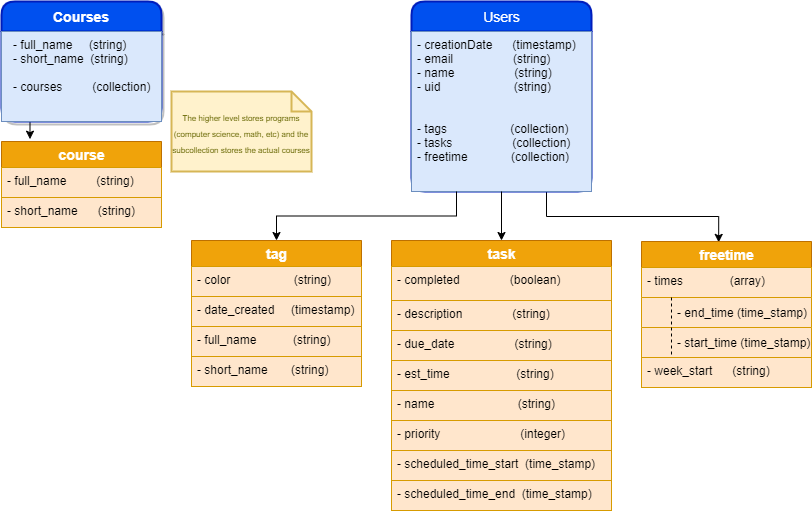
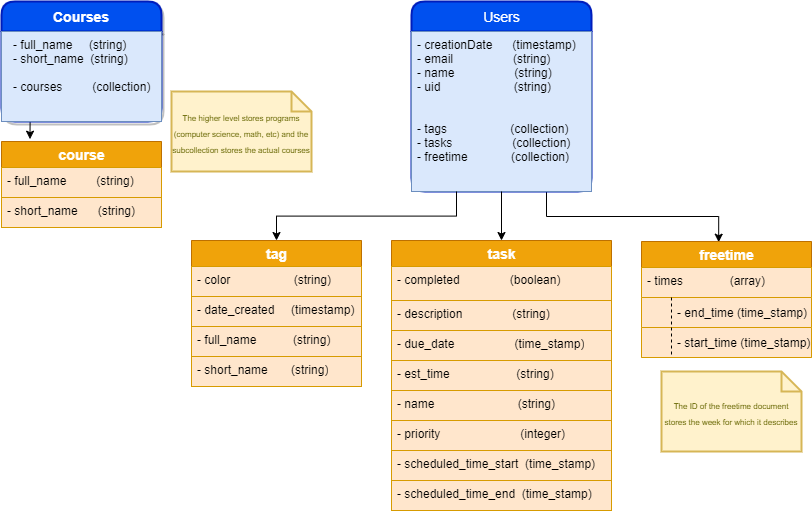
Update database diagram

Changed region(s): [[0.7697, 0.6862, 1.0, 0.9045], [0.3387, 0.4055, 0.5542, 0.4366], [0.6466, 0.655, 0.7389, 0.6862]]

diff --git a/Design/Database/DatabaseExplanation.md b/Design/Database/DatabaseExplanation.md
@@ -19,10 +19,6 @@ This master list of courses is something everyone can read from (but not edit) f
 The Users collection will store the majority of our data.
 Under a user document, we will store their name, uid, and email address.
 Each user document will have 4 sub-collections:
-#### courses
-This sub-collection stores the courses that the user is actually involved with. It also stores data that is particular to the user. 
-We plan on storing the semester in which the course was taken, the option for the user to put a "Friendly name" (i.e if they wanted to name their "Computer Science Capstone" course "Capstone"), and a color for the tag.
-Each course here will contain a reference back to the global course list.
 
 These essentially function as tags, but reference the global course list.
 #### tags
@@ -32,7 +28,7 @@ It allows them to set a full and shortname (like the course name and code), and 
 This subcollection stores the times a user marks themselves available to schedule their tasks.
 Rather than storing these all as an array, we decided to do each week as a document. 
 This allows us to query weeks at a time, and allow the user to add time in advance.
-Each document stores the start of the week (for querying purposes) and a map of timestamps (for the beginning of the freetime and the end of the freetime).
+Each document stores the start of the week as the ID (for querying purposes) and a map of timestamps (for the beginning of the freetime and the end of the freetime).
 #### tasks
 Finally, we have our tasks subcollection.
 This is where the majority of data will be stored.
@@ -46,4 +42,4 @@ Here we will store the following items relating to the task
  - a priority (stored as an integer)
  - The scheduled start time(stored as a timestamp) - when the user schedules
  - The schedules end time(stored as a timestamp) - when the user schedules
- - An array of tags (stored as references to tags documents)
+ - An string for the associated tag (stores a reference to tags documents)
